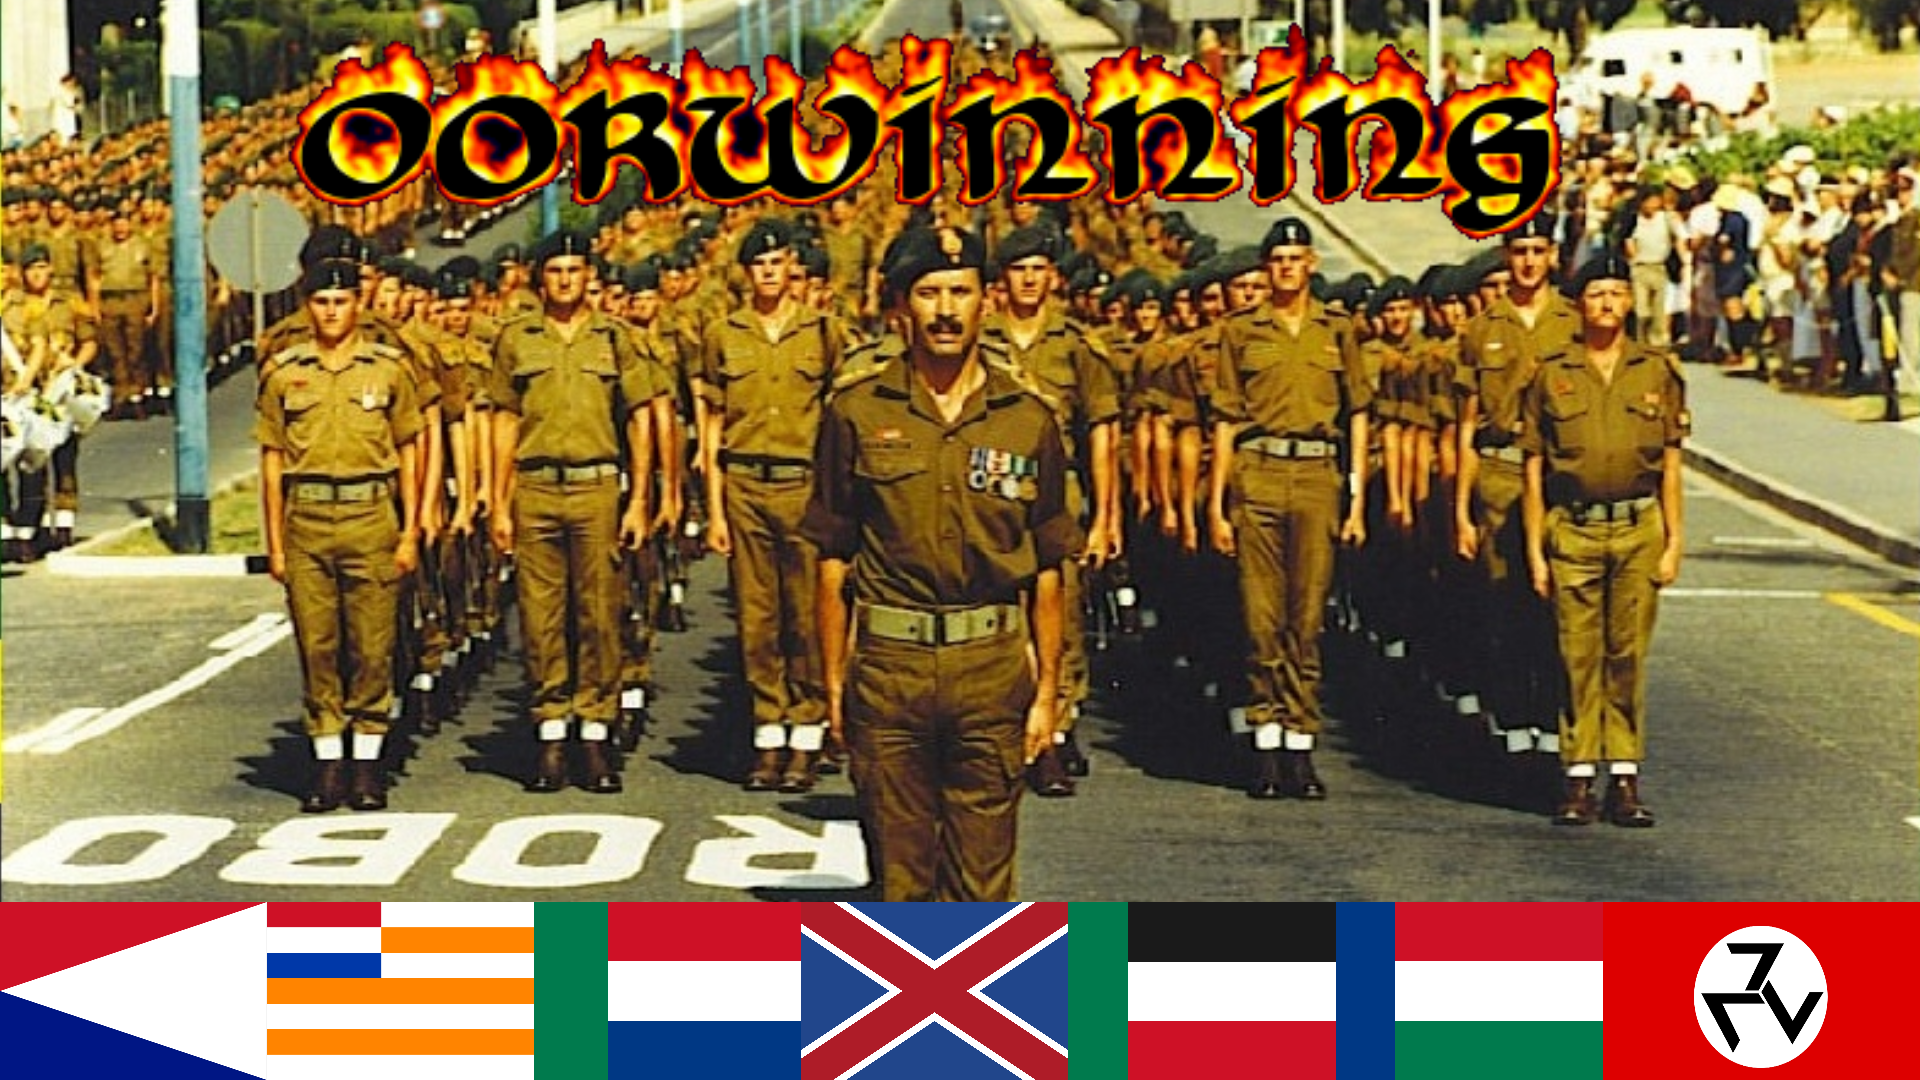
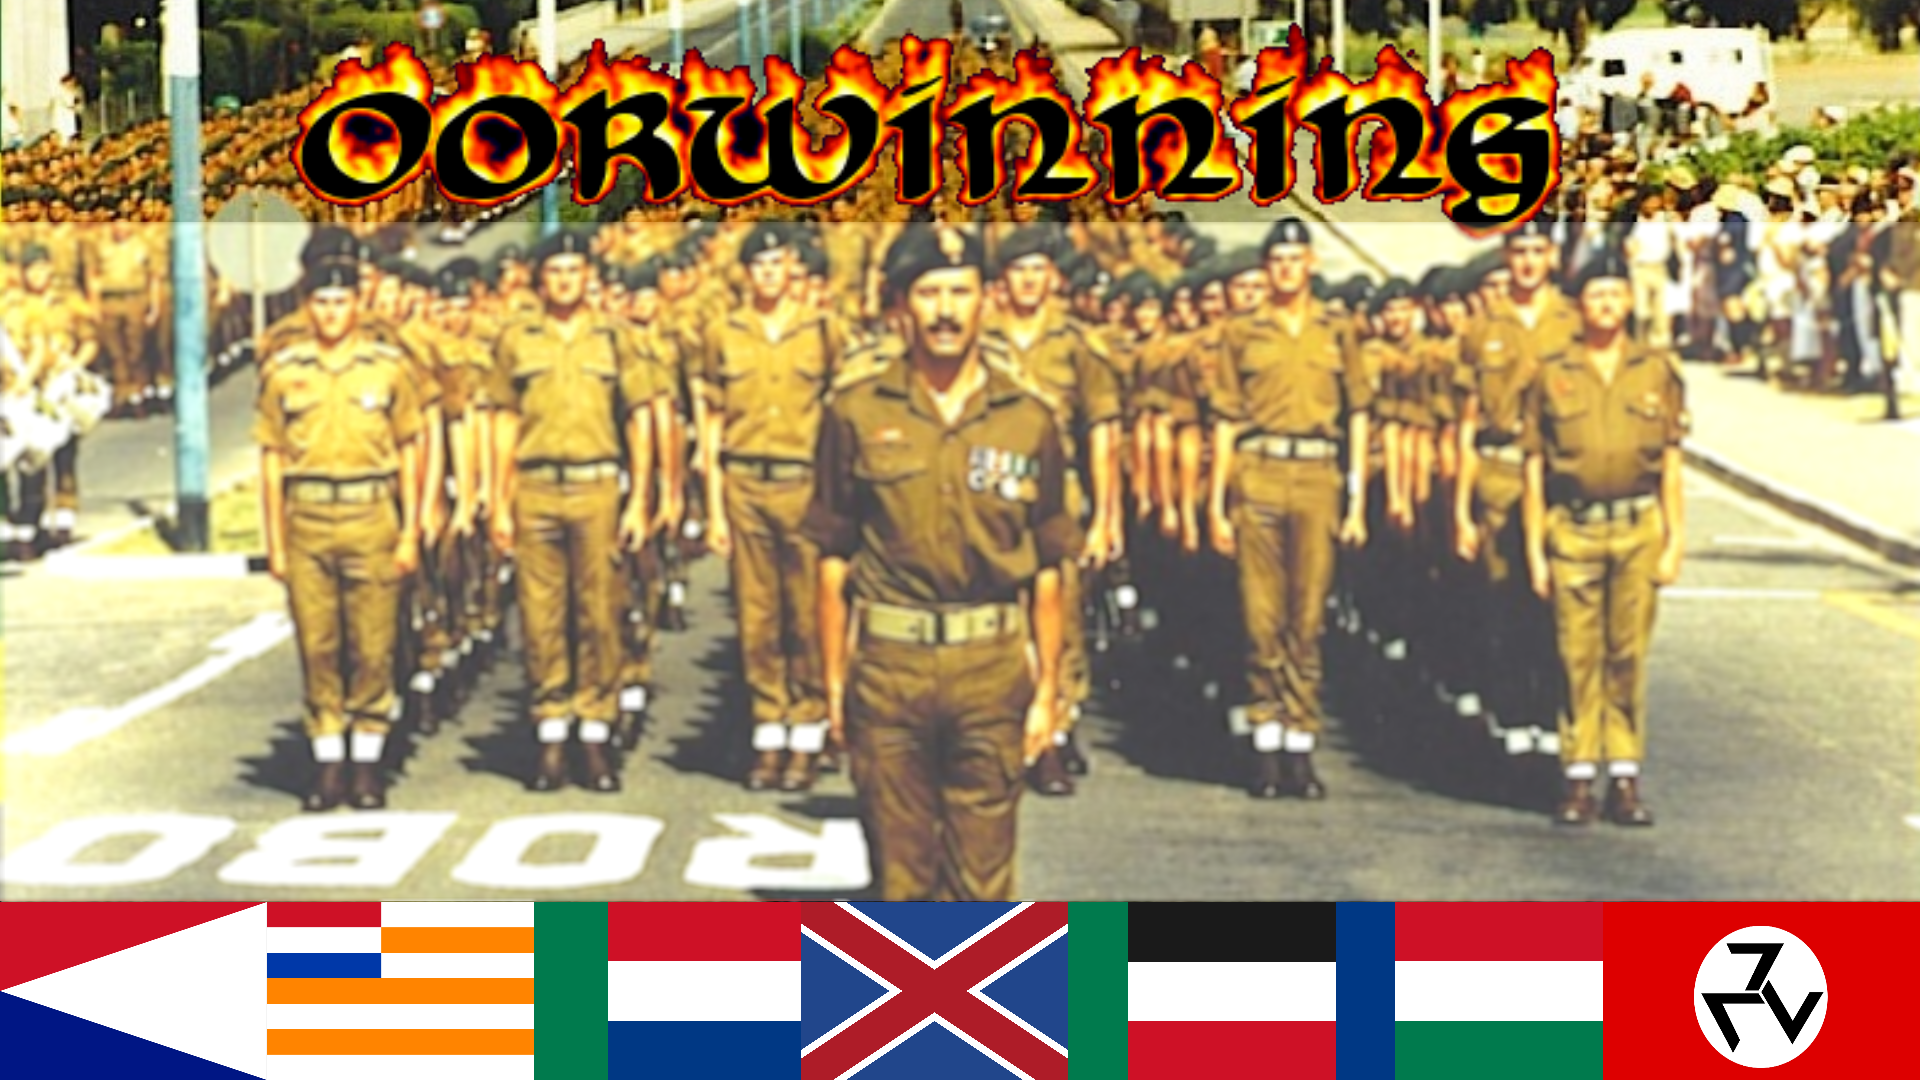
Endscreen

diff --git a/src/spel.js b/src/spel.js
@@ -39,8 +39,9 @@ class Spel {
         this.startscreen = loadImage("assets/images/backgrounds/ZuidAfrika1.png");
         this.gameoverScreen = loadImage("assets/images/backgrounds/gameover_screen.png");
         this.victoryScreen = loadImage("assets/images/backgrounds/victory_screen.png");
-
+        this.endScreen = loadImage("assets/images/backgrounds/end_screen.png");
         this.menuSong = createAudio('assets/sounds/diekaplyn.mp3');
+        this.endSong = loadSound('assets/sounds/Lied Einde.mp3');
         this.video = createVideo('assets/videos/intro.mp4');
         this.video.hide();
     }
@@ -61,6 +62,7 @@ class Spel {
         this.inLevel = true;
         this.inMenu = false;
         this.inIntro = false;
+        this.inEndScreen = false;
         this.canvas.show();
         this.video.hide();
         this.video.stop();
@@ -180,10 +182,23 @@ class Spel {
             if (this.score >= this.doel) {
                 this.inLevel = false;
                 this.gameOver = false;
+                if (this.level == 4) {
+                    this.inEndScreen = true;
+                }
             }
             if (this.tijdOver <= 0.0 || this.levens <= 0) {
                 this.inLevel = false;
                 this.gameOver = true;
+            }
+        } else if (this.inEndScreen) {
+            if (!this.endSong.isPlaying())
+            {
+                this.endSong.loop();
+            }
+            if (keyIsDown(ENTER)) {
+                this.endSong.stop();
+                this.inEndScreen = false;
+                this.inMenu = true;
             }
         } else {
             if (this.gameOver) {
@@ -299,7 +314,11 @@ class Spel {
             }
             imageMode(CORNER)
             image(this.scopePlaatje, mouseX - 250 - this.recoilX, mouseY - 250 - this.recoilY, 500, 500);
-        } else {
+        } else if (this.inEndScreen) {
+            cursor(ARROW);
+            image(this.endScreen, 0, 0, width, height);
+        }
+        else {
             cursor(ARROW);
 
             fill(0);

diff --git a/index.html b/index.html
@@ -1,8 +1,9 @@
 <!DOCTYPE html>
-<html>
+<html lang="nl">
 
 <head>
   <meta charset="UTF-8">
+  <title>Suid-Afrikaanse Grensoorlog</title>
   <style>
     html,
     body {
